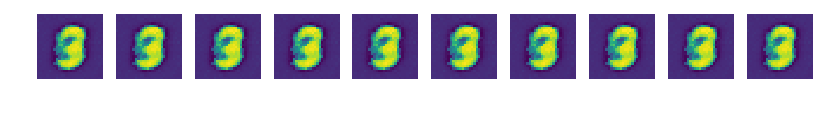
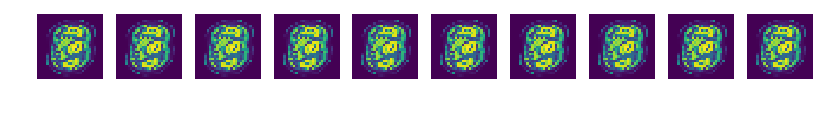
modify GAN

diff --git a/PycharmProjects/DeepLearning/MachineLearning/GAN.py b/PycharmProjects/DeepLearning/MachineLearning/GAN.py
@@ -6,9 +6,10 @@ from tensorflow.examples.tutorials.mnist import input_data
 
 mnist = input_data.read_data_sets("./mnist/data/", one_hot=True)
 
-learning_rate = 0.0002
+
 total_epoch = 100
 batch_size = 100
+learning_rate = 0.0002
 n_hidden = 256
 n_input = 28 * 28
 n_noise = 128
@@ -40,7 +41,7 @@ D_b2 = tf.Variable(tf.zeros([1]))
 # 생성자
 def generator(noise_z):
     hidden = tf.nn.relu(tf.matmul(noise_z, G_W1) + G_b1)
-    output = tf.nn.sigmoid(tf.matmul(hidden, D_W2) + G_b2)
+    output = tf.nn.sigmoid(tf.matmul(hidden, G_W2) + G_b2)
     return output
 
 
@@ -54,6 +55,7 @@ def discriminator(inputs):
 # 무작위로 노이즈를 만들어주는 함수
 def get_noise(batch_size, n_noise):
     return np.random.normal(size=(batch_size, n_noise))
+
 
 G = generator(Z)
 D_gene = discriminator(G)  # 생성한 가짜
@@ -72,11 +74,11 @@ loss_G = tf.reduce_mean(tf.log(D_gene))
 # loss_D와 loss_G 두 값 모두 최대화 하여야 하지만 경쟁관계이기에 비례관계는 아니다.
 
 D_var_list = [D_W1, D_b1, D_W2, D_b2]
-G_var_list = [G_W1, G_b1, G_W1, G_b2]
+G_var_list = [G_W1, G_b1, G_W2, G_b2]
 
 # 값을 최대화하여야 하므로 minimize함수에 음수를 붙인다.
-train_D = tf.train.AdamOptimizer(learning_rate=learning_rate).minimize(-loss_D, var_list=D_var_list)
-train_G = tf.train.AdamOptimizer(learning_rate=learning_rate).minimize(-loss_G, var_list=G_var_list)
+train_D = tf.train.AdamOptimizer(learning_rate).minimize(-loss_D, var_list=D_var_list)
+train_G = tf.train.AdamOptimizer(learning_rate).minimize(-loss_G, var_list=G_var_list)
 
 sess = tf.Session()
 sess.run(tf.global_variables_initializer())
@@ -89,8 +91,8 @@ for epoch in range(total_epoch):
         batch_xs, batch_ys = mnist.train.next_batch(batch_size)
         noise = get_noise(batch_size, n_noise)
 
-        loss_val_D, _ = sess.run([loss_D, train_D], feed_dict={X: batch_xs, Z: noise})
-        loss_val_G, _ = sess.run([loss_G, train_G], feed_dict={Z: noise})
+        _, loss_val_D = sess.run([train_D, loss_D], feed_dict={X: batch_xs, Z: noise})
+        _, loss_val_G = sess.run([train_G, loss_G], feed_dict={Z: noise})
 
     print("Epoch : ", "%04d" % epoch, " D loss : {:.4}".format(loss_val_D), " G loss : {:.4}".format(loss_val_G))
 
